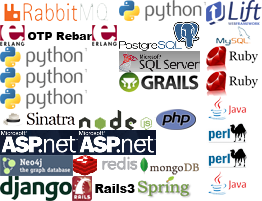
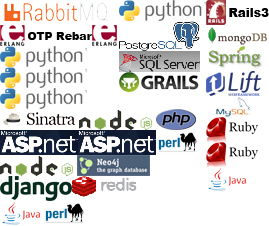
Add Node 0.6 image

diff --git a/app/assets/stylesheets/vendor_images.scss b/app/assets/stylesheets/vendor_images.scss
@@ -6,15 +6,16 @@
         app/assets/images/vendor_images/otp_rebar.png (92x21)
         app/assets/images/vendor_images/python26.png (87x21)
         app/assets/images/vendor_images/python32.png (87x21)
-        app/assets/images/vendor_images/python27.png (87x21)
         app/assets/images/vendor_images/python.png (87x21)
+        app/assets/images/vendor_images/python27.png (87x21)
         app/assets/images/vendor_images/postgresql.png (81x30)
         app/assets/images/vendor_images/mssql.png (81x21)
         app/assets/images/vendor_images/grails.png (80x21)
         app/assets/images/vendor_images/sinatra.png (79x21)
-        app/assets/images/vendor_images/aspdotnet40.png (78x25)
         app/assets/images/vendor_images/aspdotnet.png (78x25)
+        app/assets/images/vendor_images/aspdotnet40.png (78x25)
         app/assets/images/vendor_images/node.png (77x21)
+        app/assets/images/vendor_images/node06.png (77x21)
         app/assets/images/vendor_images/neo4j.png (73x21)
         app/assets/images/vendor_images/django.png (72x25)
         app/assets/images/vendor_images/redis.png (65x21)
@@ -25,19 +26,20 @@
         app/assets/images/vendor_images/mysql.png (55x21)
         app/assets/images/vendor_images/ruby19.png (52x25)
         app/assets/images/vendor_images/ruby18.png (52x25)
-        app/assets/images/vendor_images/java_web.png (43x25)
-        app/assets/images/vendor_images/perl514.png (43x25)
-        app/assets/images/vendor_images/perl.png (43x25)
         app/assets/images/vendor_images/java.png (43x25)
+        app/assets/images/vendor_images/perl514.png (43x25)
+        app/assets/images/vendor_images/java_web.png (43x25)
+        app/assets/images/vendor_images/perl.png (43x25)
         app/assets/images/vendor_images/php.png (40x21)
         app/assets/images/vendor_images/erlangR14B02.png (25x21)
+        app/assets/images/vendor_images/test.png (1x1)
 
         Output files:
           app/assets/images/vendor_images.png
           app/assets/stylesheets/vendor_images.scss
 
         Output size:
-          262x201
+          269x226
 
 
 */
@@ -45,28 +47,30 @@ img.rabbitmq { width: 119px; height: 25px; background: image_url('vendor_images.
 img.otp_rebar { width: 92px; height: 21px; background: image_url('vendor_images.png') 0px -25px no-repeat }
 img.python26 { width: 87px; height: 21px; background: image_url('vendor_images.png') 0px -46px no-repeat }
 img.python32 { width: 87px; height: 21px; background: image_url('vendor_images.png') 0px -67px no-repeat }
-img.python27 { width: 87px; height: 21px; background: image_url('vendor_images.png') 0px -88px no-repeat }
-img.python { width: 87px; height: 21px; background: image_url('vendor_images.png') -119px 0px no-repeat }
+img.python { width: 87px; height: 21px; background: image_url('vendor_images.png') 0px -88px no-repeat }
+img.python27 { width: 87px; height: 21px; background: image_url('vendor_images.png') -119px 0px no-repeat }
 img.postgresql { width: 81px; height: 30px; background: image_url('vendor_images.png') -119px -21px no-repeat }
 img.mssql { width: 81px; height: 21px; background: image_url('vendor_images.png') -119px -51px no-repeat }
 img.grails { width: 80px; height: 21px; background: image_url('vendor_images.png') -119px -72px no-repeat }
 img.sinatra { width: 79px; height: 21px; background: image_url('vendor_images.png') 0px -109px no-repeat }
-img.aspdotnet40 { width: 78px; height: 25px; background: image_url('vendor_images.png') 0px -130px no-repeat }
-img.aspdotnet { width: 78px; height: 25px; background: image_url('vendor_images.png') -78px -130px no-repeat }
+img.aspdotnet { width: 78px; height: 25px; background: image_url('vendor_images.png') 0px -130px no-repeat }
+img.aspdotnet40 { width: 78px; height: 25px; background: image_url('vendor_images.png') -78px -130px no-repeat }
 img.node { width: 77px; height: 21px; background: image_url('vendor_images.png') -79px -109px no-repeat }
-img.neo4j { width: 73px; height: 21px; background: image_url('vendor_images.png') 0px -155px no-repeat }
+img.node06 { width: 77px; height: 21px; background: image_url('vendor_images.png') 0px -155px no-repeat }
+img.neo4j { width: 73px; height: 21px; background: image_url('vendor_images.png') -77px -155px no-repeat }
 img.django { width: 72px; height: 25px; background: image_url('vendor_images.png') 0px -176px no-repeat }
-img.redis { width: 65px; height: 21px; background: image_url('vendor_images.png') -73px -155px no-repeat }
-img.rails3 { width: 63px; height: 25px; background: image_url('vendor_images.png') -72px -176px no-repeat }
-img.mongodb { width: 63px; height: 21px; background: image_url('vendor_images.png') -138px -155px no-repeat }
-img.spring { width: 58px; height: 25px; background: image_url('vendor_images.png') -135px -176px no-repeat }
-img.lift { width: 56px; height: 25px; background: image_url('vendor_images.png') -206px 0px no-repeat }
-img.mysql { width: 55px; height: 21px; background: image_url('vendor_images.png') -206px -25px no-repeat }
-img.ruby19 { width: 52px; height: 25px; background: image_url('vendor_images.png') -206px -46px no-repeat }
-img.ruby18 { width: 52px; height: 25px; background: image_url('vendor_images.png') -206px -71px no-repeat }
-img.java_web { width: 43px; height: 25px; background: image_url('vendor_images.png') -206px -96px no-repeat }
-img.perl514 { width: 43px; height: 25px; background: image_url('vendor_images.png') -206px -121px no-repeat }
-img.perl { width: 43px; height: 25px; background: image_url('vendor_images.png') -206px -146px no-repeat }
-img.java { width: 43px; height: 25px; background: image_url('vendor_images.png') -206px -171px no-repeat }
+img.redis { width: 65px; height: 21px; background: image_url('vendor_images.png') -72px -176px no-repeat }
+img.rails3 { width: 63px; height: 25px; background: image_url('vendor_images.png') -206px 0px no-repeat }
+img.mongodb { width: 63px; height: 21px; background: image_url('vendor_images.png') -206px -25px no-repeat }
+img.spring { width: 58px; height: 25px; background: image_url('vendor_images.png') -206px -46px no-repeat }
+img.lift { width: 56px; height: 25px; background: image_url('vendor_images.png') -206px -71px no-repeat }
+img.mysql { width: 55px; height: 21px; background: image_url('vendor_images.png') -206px -96px no-repeat }
+img.ruby19 { width: 52px; height: 25px; background: image_url('vendor_images.png') -206px -117px no-repeat }
+img.ruby18 { width: 52px; height: 25px; background: image_url('vendor_images.png') -206px -142px no-repeat }
+img.java { width: 43px; height: 25px; background: image_url('vendor_images.png') -206px -167px no-repeat }
+img.perl514 { width: 43px; height: 25px; background: image_url('vendor_images.png') -156px -130px no-repeat }
+img.java_web { width: 43px; height: 25px; background: image_url('vendor_images.png') 0px -201px no-repeat }
+img.perl { width: 43px; height: 25px; background: image_url('vendor_images.png') -43px -201px no-repeat }
 img.php { width: 40px; height: 21px; background: image_url('vendor_images.png') -156px -109px no-repeat }
 img.erlangR14B02 { width: 25px; height: 21px; background: image_url('vendor_images.png') -92px -25px no-repeat }
+img.test { width: 1px; height: 1px; background: image_url('vendor_images.png') -264px -46px no-repeat }
